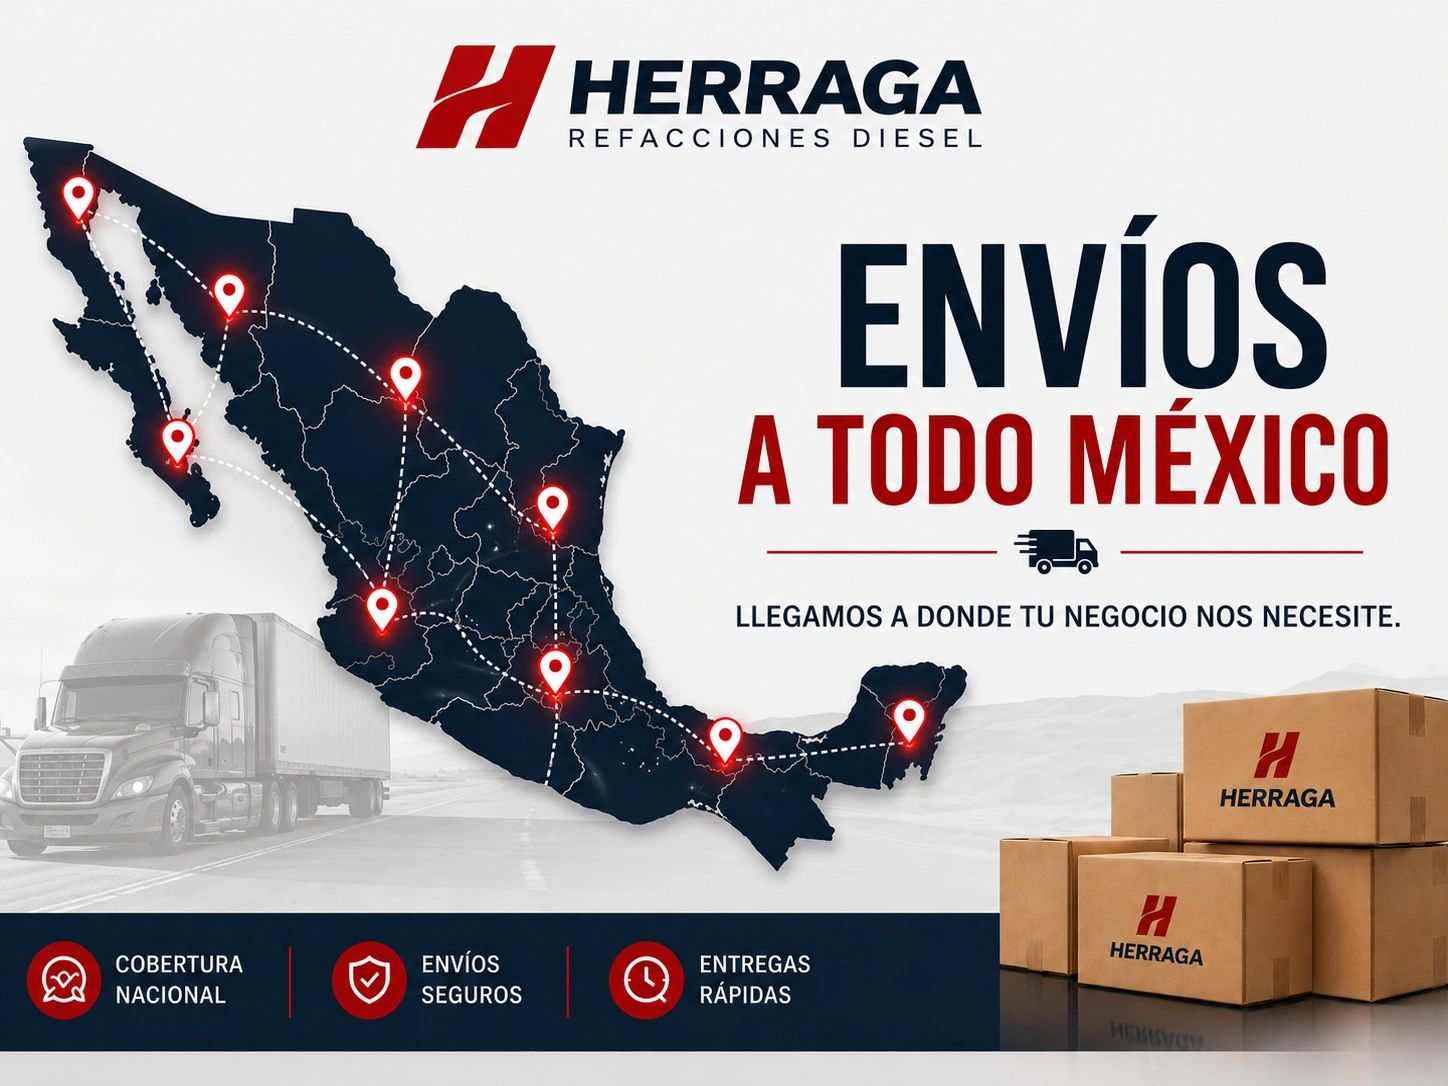
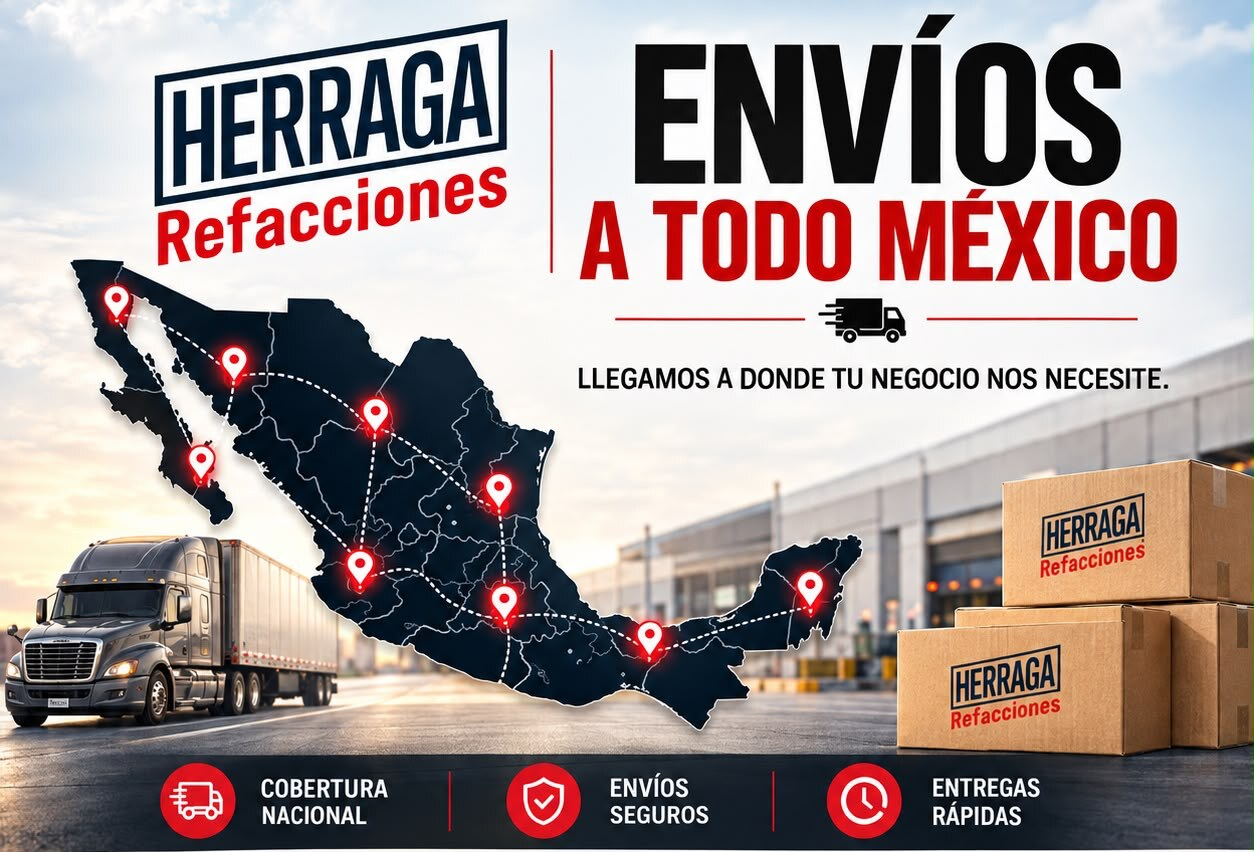
feat: call buttons for every branch, customer service line and new shipping image

diff --git a/src/data/site.ts b/src/data/site.ts
@@ -21,8 +21,15 @@ export const company = {
 // National line (also WhatsApp). Digits only, without country code.
 export const NATIONAL_PHONE = '6645149674';
 
+// Customer service line (from HERRAGA's 2026 shipping flyer).
+export const SERVICE_PHONE = '5519595959';
+
+// Mexican 10-digit numbers: two-digit area codes (CDMX/Edo. Méx. 55 and 56, Guadalajara 33, Monterrey 81)
+// read 2-4-4; every other area code reads 3-3-4.
 export const formatPhone = (digits: string) =>
-  `${digits.slice(0, 3)} ${digits.slice(3, 6)} ${digits.slice(6)}`;
+  /^(55|56|33|81)/.test(digits)
+    ? `${digits.slice(0, 2)} ${digits.slice(2, 6)} ${digits.slice(6)}`
+    : `${digits.slice(0, 3)} ${digits.slice(3, 6)} ${digits.slice(6)}`;
 
 export const telHref = (digits: string) => `tel:+52${digits}`;
 
@@ -84,7 +91,7 @@ export const pillars: Pillar[] = [
     title: 'Envíos a todo México',
     body: 'Contamos con envíos a todo México y disponibilidad inmediata en múltiples sucursales. Recibe tus refacciones cuando las necesitas.',
     image: 'envios',
-    imageAlt: 'Mapa de México con rutas de envío de HERRAGA Refacciones Diésel.',
+    imageAlt: 'Envíos a todo México: mapa con rutas de entrega, tractocamión y cajas de HERRAGA Refacciones. Cobertura nacional, envíos seguros y entregas rápidas.',
     lead: 'Llegamos a donde tu negocio nos necesite.',
     points: ['Cobertura nacional', 'Envíos seguros', 'Entregas rápidas'],
     cta: { label: 'Llamar', kind: 'tel' },
